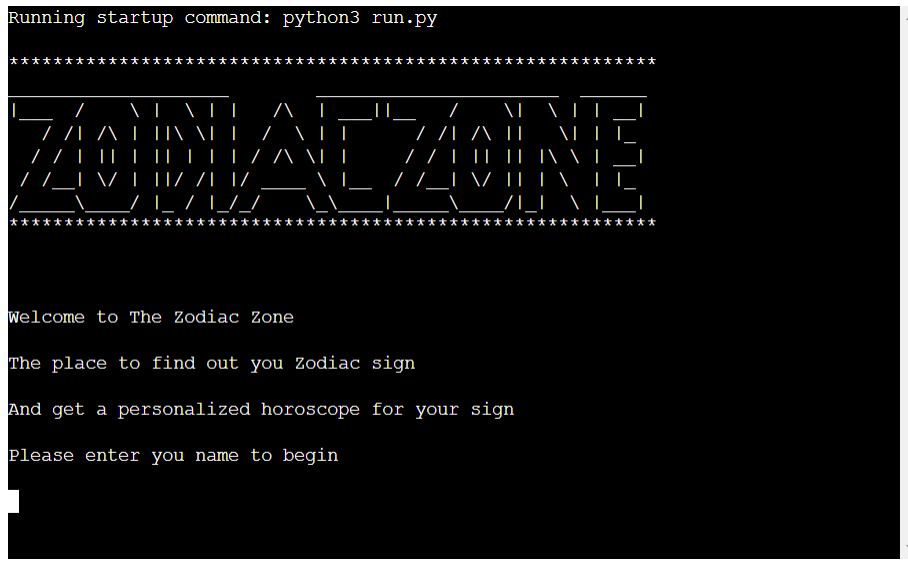
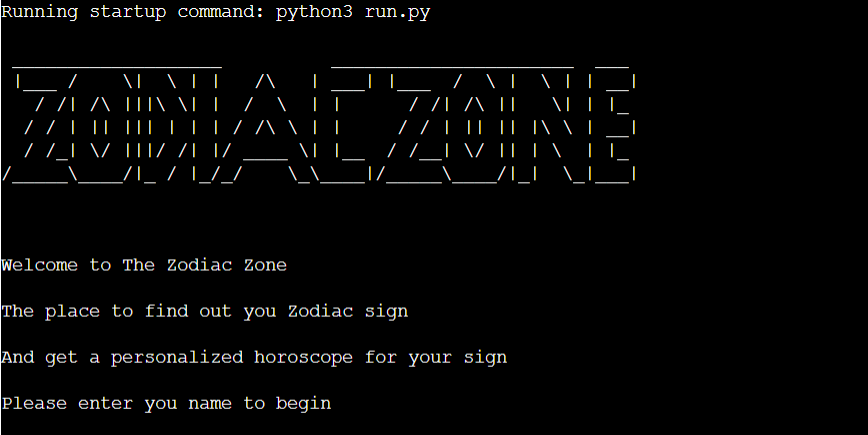
Add pyfiglet for a cleaner main heading and exit message

Changed region(s): [[0.0, 0.0, 1.0, 1.0], [0.3733, 0.2092, 0.4044, 0.2391]]

diff --git a/run.py b/run.py
@@ -1,20 +1,28 @@
-def main():
+''' zodiac zone imports '''
 
+
+def main():
+    # import os clears the terminal instead of constant scrolling text
     import os
+
+    # import random for random horoscope generation
     import random
+
+    # import time creates a delay in text appearing
     import time
+
+    # import random from random integer creates a random integer value
+    # from the given list/dictionary
     from random import randint
 
-    print(r' ___________________          ______________________  ___ ')
-    print(r' |___ /    \|  \ | |   /\   | ___| |___  /  \ |  \ | | __|')
-    print(r'   / /| /\ |||\ \| |  /  \  | |      / /| /\ ||   \| | |_ ')
-    print(r'  / / | || ||| | | | / /\ \ | |     / / | || || |\ \ | __|')
-    print(r'  / /_| \/ |||/ /| |/ ____ \| |__  / /__| \/ || | \  | |_ ')
-    print(r'/_____\____/|_ / |_/_/    \_\____|/_____\____/|_|  \_|___|')
-    print("")
-    print("")
-    print("")
+    import pyfiglet
 
+    # Main logo displayed on heading of terminal for application
+    title = pyfiglet.figlet_format(
+        "zodiac Zone", font="standard", justify="center")
+    print(title)
+
+    # List/ dictionary for random horoscope generation
     first = [
             "Today is perfect for new endeavors.",
             "Today is the day to cherish and embrace others.",
@@ -55,6 +63,7 @@ def main():
     print("")
     print("Please enter your Month and Day of Birth\n")
 
+    # Defines month funtion
     def month():
         """
     This function only excepts numbers from user input
@@ -77,6 +86,7 @@ def main():
 
     month = month()
 
+    # Defines day function
     def day():
         """
     This function only excepts numbers from user input
@@ -110,11 +120,13 @@ def main():
 
     day = day()
 
+    # prints out user feedback
     print("")
     print('Thank you! I will now consult the cosmos & return your star sign\n')
     time.sleep(3)
     os.system('cls||clear')
 
+    # Defines day and month and calculates which sign to display
     def sign(day, month):
 
         """
@@ -182,7 +194,7 @@ def main():
                 (int(month) == 1 and int(day) <= 19)):
             sign = ("Capricorn")
 
-        # count down display
+        # count down display and user feedback
         print("Calculating...\n")
         time.sleep(1)
         print("Consulting the cosmos...\n")
@@ -243,7 +255,10 @@ def main():
 
         # if no, stop the execution of the program
         elif answer == 'n':
-            print("Thank you for playing, I hope you have a great day!")
+            end = pyfiglet.figlet_format(
+                "I hope you have a Great day!",
+                font="standard", justify="center")
+            print(end)
             exit(1)
         # if invalid response, ask the player to enter a valid choice
         else:

diff --git a/README.md b/README.md
@@ -34,6 +34,8 @@
      - [Unfixed Bugs](#Unfixed-bugs)
 
 - ##  [Validators](#Validators)
+
+- ##  [Deployment](#Deployment)
     
 
 
@@ -98,7 +100,7 @@ I designed a basic flowchart on [Lucid Chart](https://www.lucidchart.com/) first
 
   ## Existing features 
   - ## Application start 
-    - [Pyfiglet](https://www.geeksforgeeks.org/python-ascii-art-using-pyfiglet-module/#:~:text=pyfiglet%20takes%20ASCII%20text%20and,pyfiglet%20module%20%3A%20pip%20install%20pyfiglet) was installed and import pyfiglet was used to generate ASCII art for the title and subtitle of the game.
+    - Landing page with application logo
     - Welcome message.
     - Information about what the appliction is for. 
     - Text prompt for user to enter name.
@@ -198,3 +200,4 @@ I designed a basic flowchart on [Lucid Chart](https://www.lucidchart.com/) first
  - This project was validated with [PEP8 online check](http://pep8online.com/)
  - After debugging process application passed without any errors. 
 
+- # Deployment
